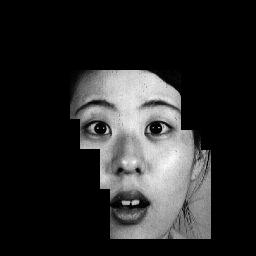
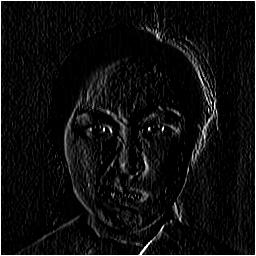
addded Class LDP to handle Kirschedge masking.

diff --git a/src/debug.html b/src/debug.html
@@ -1,0 +1,62 @@
+<html>
+<head><title>img</title></head>
+<style>
+    div, img, body{
+        margin: 0;
+    }   
+    span{
+        margin-left: 10px;
+    }    
+    input[type="text"]{
+        margin-top: 15px;
+        margin-bottom: 15px;
+        margin-left: 20px;
+        height: 30px;        
+    }
+</style>
+<body>
+    <div id="image" style="float:left">
+        <img src="/chess" alt="" onContextMenu="return false">        
+    </div> 
+    <div style="float:left">
+        <div><input placeholder="x0 = " type="text" id="x0"></div>
+        <div><input placeholder="y0 = " type="text" id="y0"></div>
+        <div><input placeholder="x1 = " type="text" id="x1"></div>
+        <div><input placeholder="y1 = " type="text" id="y1"></div>
+    </div>
+    <div style="margin:15px; float:left">
+        <img id="hello" src="hello.jpg" alt="">
+    </div>
+    <script>
+        var baseURL = "http://localhost:5000"
+        function setIdValue(id, val){
+            document.getElementById(id).value = id + " =  " + val
+        }
+        function getIdValue(id){
+            return document.getElementById(id).value.split("=")[1].trim()
+        }
+        function refreshImage(){
+            var imhello = document.getElementById("hello")
+            var values = ["x0", "y0", "x1", "y1"].map(getIdValue)
+            var targetURL = baseURL + "/" + values.join("/")            
+            var xmlhttp = new XMLHttpRequest()            
+            xmlhttp.open("GET", targetURL, false)
+            xmlhttp.send(null)            
+            imhello.src = "/hello?timestamp=" + new Date().getTime();            
+        }
+        function onLeftClick(e){            
+            setIdValue("x0", e.clientX)
+            setIdValue("y0", e.clientY)        
+            refreshImage()                
+        }
+        function onRightClick(e){
+            setIdValue("x1", e.clientX)
+            setIdValue("y1", e.clientX)                            
+            refreshImage()
+        }
+        var im = document.getElementById("image")
+        im.addEventListener("click", onLeftClick, false)
+        im.addEventListener("contextmenu", onRightClick, false)
+    </script>
+</body>
+</html>

diff --git a/src/App.py b/src/App.py
@@ -7,6 +7,7 @@ import sys
 import numpy as np
 import CornerDetection as cd
 import time
+import math
 @classmethod
 def loadClassifiers(cls, filepath):
     def loader():
@@ -52,7 +53,7 @@ def eyeFinder(classifiers, image):
     identified = []
     tot = 0
     xx = 0
-    for area in ranges(image.size, (100, 48)):                
+    for area in ranges(image.size, (106, 48)):                
         args = sumTable.haar(*area)                
         test = helper.all(lambda c: c.apply(*args) > 0, classifiers, 3)
         if test:                    
@@ -77,18 +78,40 @@ def maskWrite(regionCandidates, origin):
             data[x0, y] = 255
             data[x1, y] = 255
 
-def main():    
+def naiveBayes(avg, stddev):
+    variance = math.sqrt(stddev)
+    @orderOfLog10
+    def aply(x):    
+        divisor = math.sqrt(2 * math.pi * stddev * stddev)
+        diff = x - avg
+        exponetor = - (diff * diff) / (2 * stddev * stddev)
+        return math.exp(exponetor)/divisor
+    return aply
+
+def orderOfLog10(func):
+    return lambda *args: math.log(func(*args), 10)
+
+def main(): 
+    def ftrs(args):
+        x, y, reg = args        
+        return nbx(x) > -3 and nby(y) > -3        
+        
+    avg = [374.88853020859023, 1014.8650253216985]
+    std = [56.422630355577567, 61.952098016350945]        
+    nbs = map(naiveBayes, avg, std)
+    nbx, nby = nbs
     classifiers = [classifier for classifier in classifierLoader()]        
-    for num, image in enumerate(imagesLoader()):
-        immask = [[0 for __ in xrange(image.size[0])] for _ in xrange(image.size[1])]
+    for num, image in enumerate(imagesLoader()):        
         regionCandidates = [region for region in eyeFinder(classifiers, image)]        
         crops = [image.crop(region) for region in regionCandidates]
-        eigs = map(cd.detect, crops)
-        eyeBoxs = [region for eig, region in zip(eigs, regionCandidates) if 350 < eig[0] < 500 and  800 < eig[1] < 1200]        
-        for b in eyeBoxs:
-            print b
-        maskWrite(eyeBoxs, image)
-        image.save("../out/%s.jpg" % num)                
+        eigs = map(cd.detect, crops)                
+        xs, ys = zip(*eigs)
+        filtered = [region for x, y, region in filter(ftrs, zip(xs, ys, regionCandidates))][:4]        
+        if not filtered: continue
+        bounds = zip(*filtered)        
+        boxLimit = [f(*args) if len(args) > 1 else args[0] for f, args in zip((min, min, max, max), bounds)]                
+        hello = image.crop(boxLimit)
+        hello.save('fc.jpg')
 
 if __name__ == '__main__':
-    main()
+    main()     

diff --git a/src/Convolution.py b/src/Convolution.py
@@ -25,16 +25,16 @@ def areaGenerator(image, size=(3, 3)):
 def monadError(func, default):
     def monadic(*args):
         try:
-            r = func(*args)            
+            r = func(*args)                        
         except:
             return default        
-        else:            
+        else:         
             return r
     return monadic
 
 def maskKernel(kernel):    
-    def aply(values):        
-        return sum(m * v for m, v in zip(kernel, values))
+    def aply(values):
+        return sum(m * v for m, v in zip(kernel, values))        
     return aply
 
 def convolute(image, mask, size):        
@@ -44,3 +44,49 @@ def convolute(image, mask, size):
         if r < -255: yield -255
         elif r > 255: yield 255
         else: yield r
+
+class LDP(object):
+    @classmethod
+    def Directions(cls, i):
+        idx = i % 8
+        return [5, 8, 7, 6, 3, 0, 1, 2][idx]
+
+    @classmethod
+    def KirschGenerator(cls, direction):
+        fives = map(LDP.Directions, xrange(direction-1, direction+2))        
+        for y in xrange(3):
+            for x in xrange(3):
+                if x == y == 1:
+                    yield 0
+                else:
+                    yield 5 if y * 3 + x in fives else -3
+
+    @classmethod
+    def Kirschedge(cls, direction):        
+        if direction != all:
+            return LDP.KirschGenerator(direction)
+        else:
+            return map(LDP.KirschGenerator, xrange(8))
+
+    @classmethod    
+    def Mask(cls, direction=all):
+        if direction != all:
+            kernel = [_ for _ in LDP.Kirschedge(direction)]
+            return maskKernel(kernel)
+        else:                        
+            kernels = [maskKernel([e for e in m]) for m in LDP.Kirschedge(all)]
+            def aply(area):
+                memo = [e for e in area]
+                result = [kernel(memo) for kernel in kernels]                
+                sortedOut = sorted(enumerate(result), key=lambda x: x[1], reverse=True)                
+                xs = (k for k, v in sortedOut[:3])
+                return sum(2 ** x for x in xs)
+            return aply
+
+# if __name__ == '__main__':
+#     image = Image.open('face.jpg')    
+#     tests = [[_ for _ in m] for m in LDP.Kirschedge(all)]    
+#     mask = LDP.Mask(all)    
+#     test = convolute(image, mask, (3, 3))
+#     field = [_ for _ in helper.group(test, 256)]    
+#     helper.arr2image(field, (256, 256), 'fc.jpg')

diff --git a/src/CornerDetection.py b/src/CornerDetection.py
@@ -3,6 +3,9 @@ import Convolution
 import Helper as helper
 import operator as op
 import numpy as np
+def eigen(image, debug=False):
+    return detect(image, debug=debug)
+
 def detect(image, threshold=100, debug=False):
     def applyMask(kernel):        
         mask = Convolution.maskKernel(kernel)        
@@ -16,7 +19,6 @@ def detect(image, threshold=100, debug=False):
 
     def showDerivationCovariant(Ix, Iy, size):    
         fields = [[0 for i in xrange(size)] for j in xrange(size)]
-
         for x, y in zip(Ix, Iy):        
             fields[view(y)][view(x)] = 255        
         helper.arr2image(fields, (size, size), "hello.jpg")
@@ -28,20 +30,19 @@ def detect(image, threshold=100, debug=False):
     Ix = map(norm, applyMask(kernelX))
     Iy = map(norm, applyMask(kernelY))
 
-    if debug:
-        showDerivationCovariant(Ix, Iy, 201)
+    if debug: showDerivationCovariant(Ix, Iy, 201)
 
     Eigen = map(sum, ([
             map(op.mul, Ix, Ix),
             map(op.mul, Ix, Iy),
             map(op.mul, Iy, Ix),
             map(op.mul, Iy, Iy)        
-        ])
+        ])  
     )
     eigen =  np.linalg.eig([_ for _ in helper.group(Eigen, 2)])
     return eigen[0]
 
 if __name__ == '__main__':
     path = '../dataset/jaffe/KA.AN1.39.jpg'    
-    image = Image.open(path).crop((100, 100, 150, 150))
+    image = Image.open(path).crop((74, 103, 123, 145))
     print detect(image, threshold=100, debug=True)

diff --git a/src/.app.py b/src/.app.py
@@ -1,0 +1,36 @@
+from flask import Flask, Response, send_file
+from PIL import Image
+import os
+import json
+import sys
+import CornerDetection as cd
+app = Flask(__name__)
+
+@app.route('/<x0>/<y0>/<x1>/<y1>')
+def eigen(x0, y0, x1, y1):
+    path = '../dataset/jaffe/KA.AN1.39.jpg'
+    image = Image.open(path).crop(map(int, (x0, y0, x1, y1)))
+    cd.detect(image, 100, True)
+    return 'success'
+
+@app.route('/debug')
+def debug():
+    return send_file('./debug.html')
+
+@app.route('/face')
+def face():
+    return send_file('./face.jpg')
+
+@app.route('/chess')
+def chess():
+    return send_file('./chess.bmp')
+
+@app.route("/hello")
+def hello():
+    return send_file("./hello.jpg")
+
+if __name__ == '__main__':    
+    if len(sys.argv) < 2:
+        pass
+    else:
+        app.run(debug=True)

diff --git a/src/Helper/__init__.py b/src/Helper/__init__.py
@@ -40,6 +40,7 @@ def all2(fiterable, tolerance=1):
     return True
 
 def group(items, n):
+    items = [_ for _ in items]    
     l = (len(items) / n)  * n
     for i in xrange(0, l, n):
         yield items[i:i+n]
@@ -51,3 +52,4 @@ def arr2image(arr, size, fout):
         for x, val in enumerate(line):            
             iml[x, y] = val
     im.save(fout)
+

diff --git a/src/test.py b/src/test.py
@@ -1,0 +1,11 @@
+import profile as p 
+import operator as op
+
+def main():
+    inf = 10 ** 6
+    # add = lambda x, y:  x + y
+    # map(op.add, xrange(inf), xrange(inf))    
+    # map(lambda x, y:  x + y, xrange(inf), xrange(inf))    
+    [x + y for x, y in zip(xrange(inf), xrange(inf))],
+
+p.run("main()")
